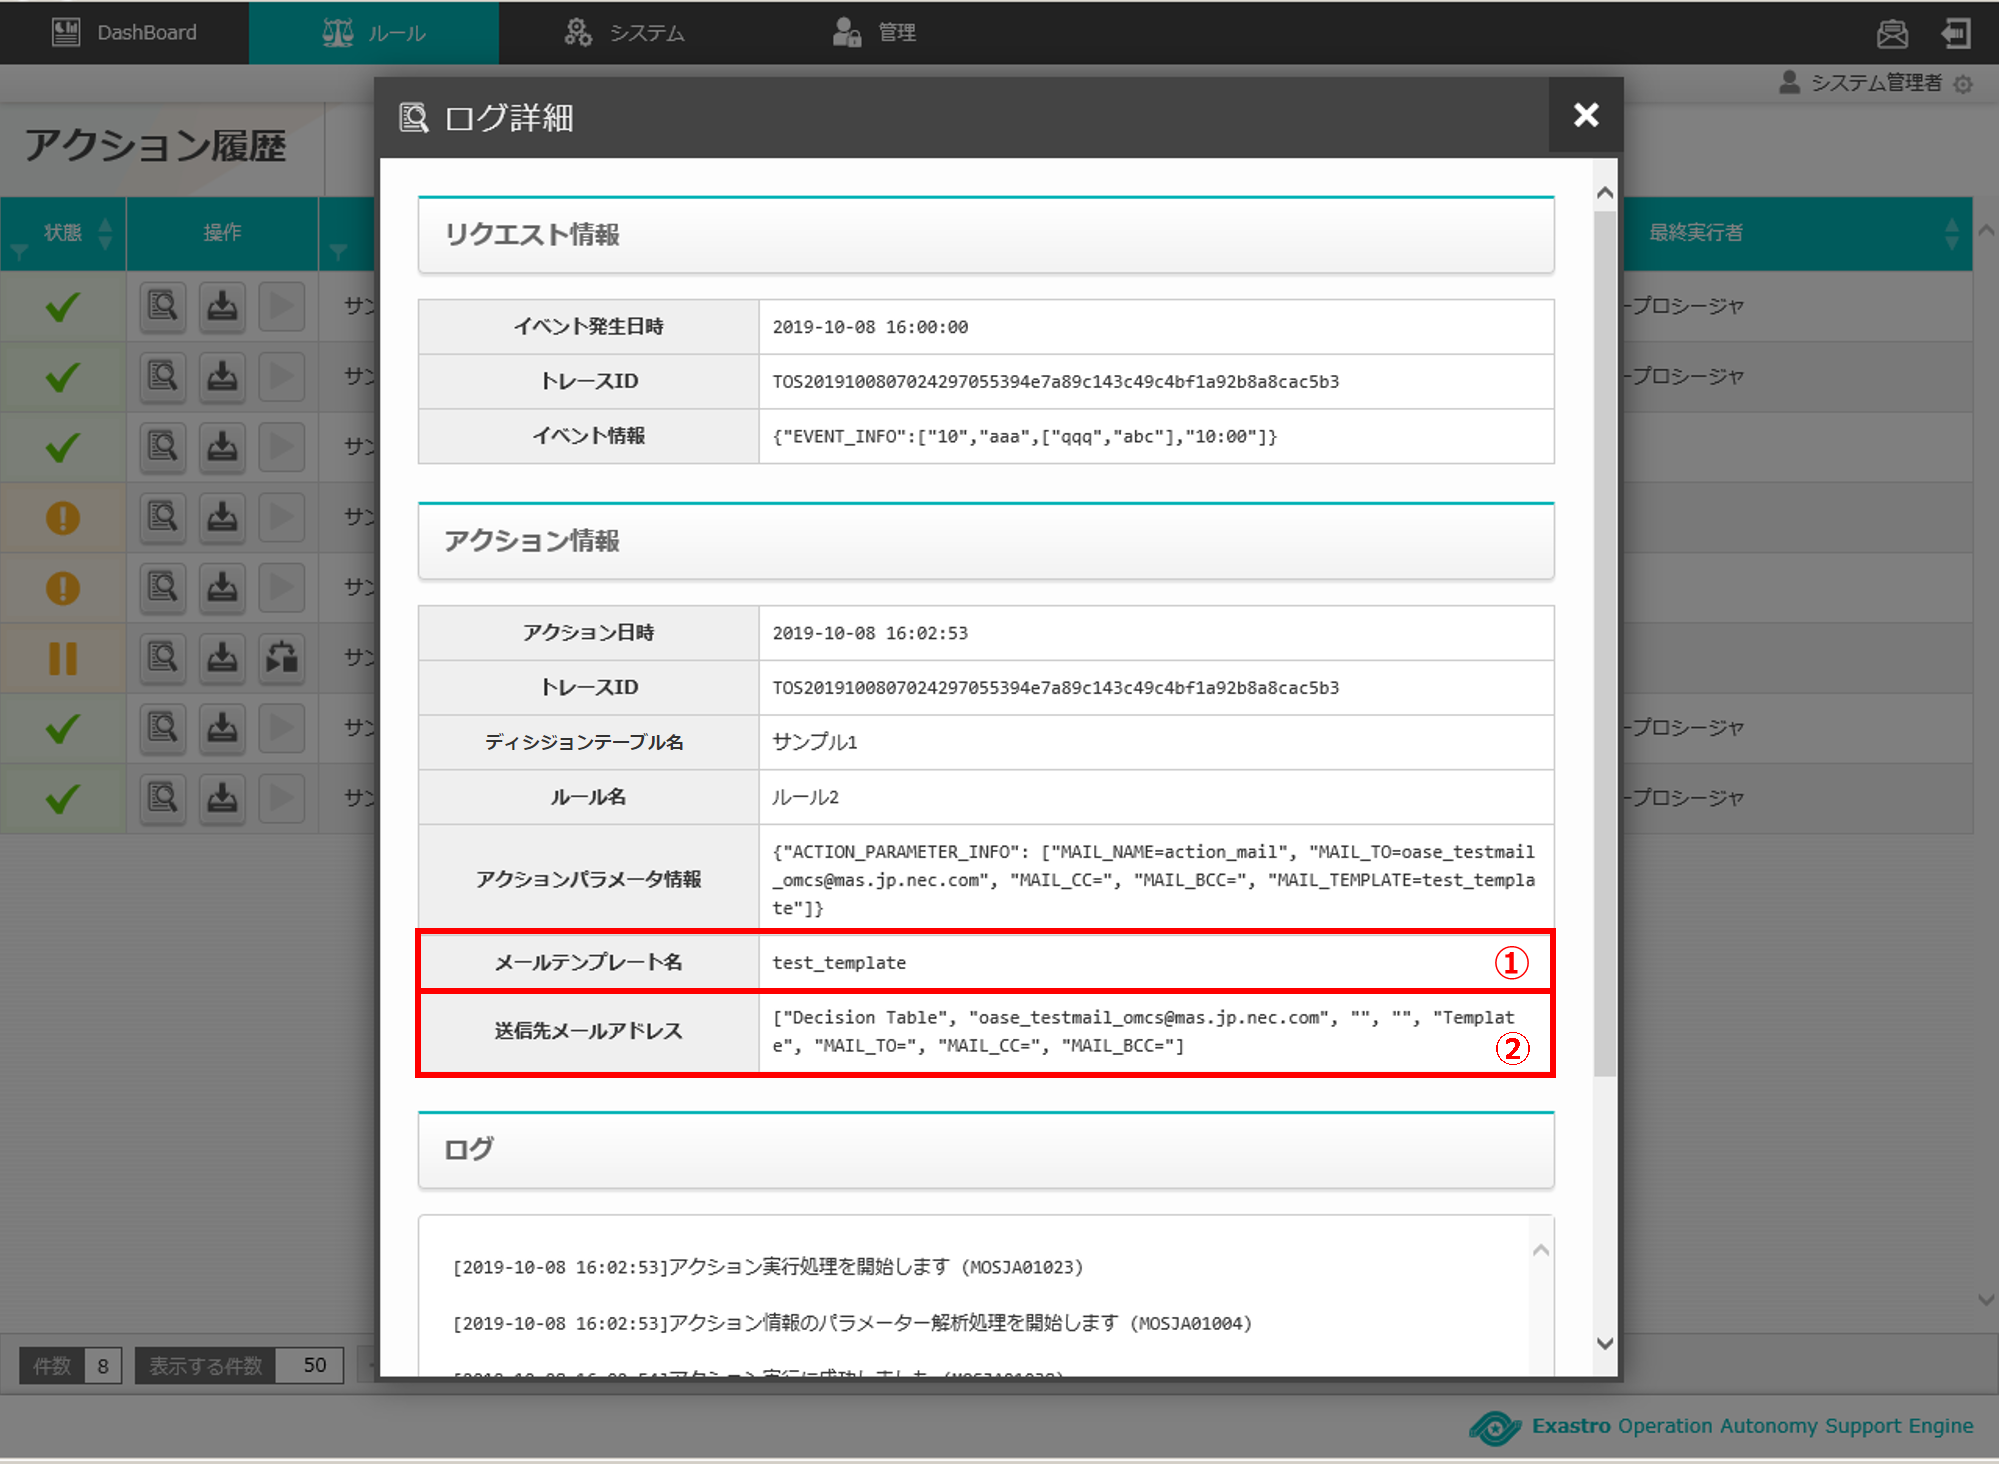
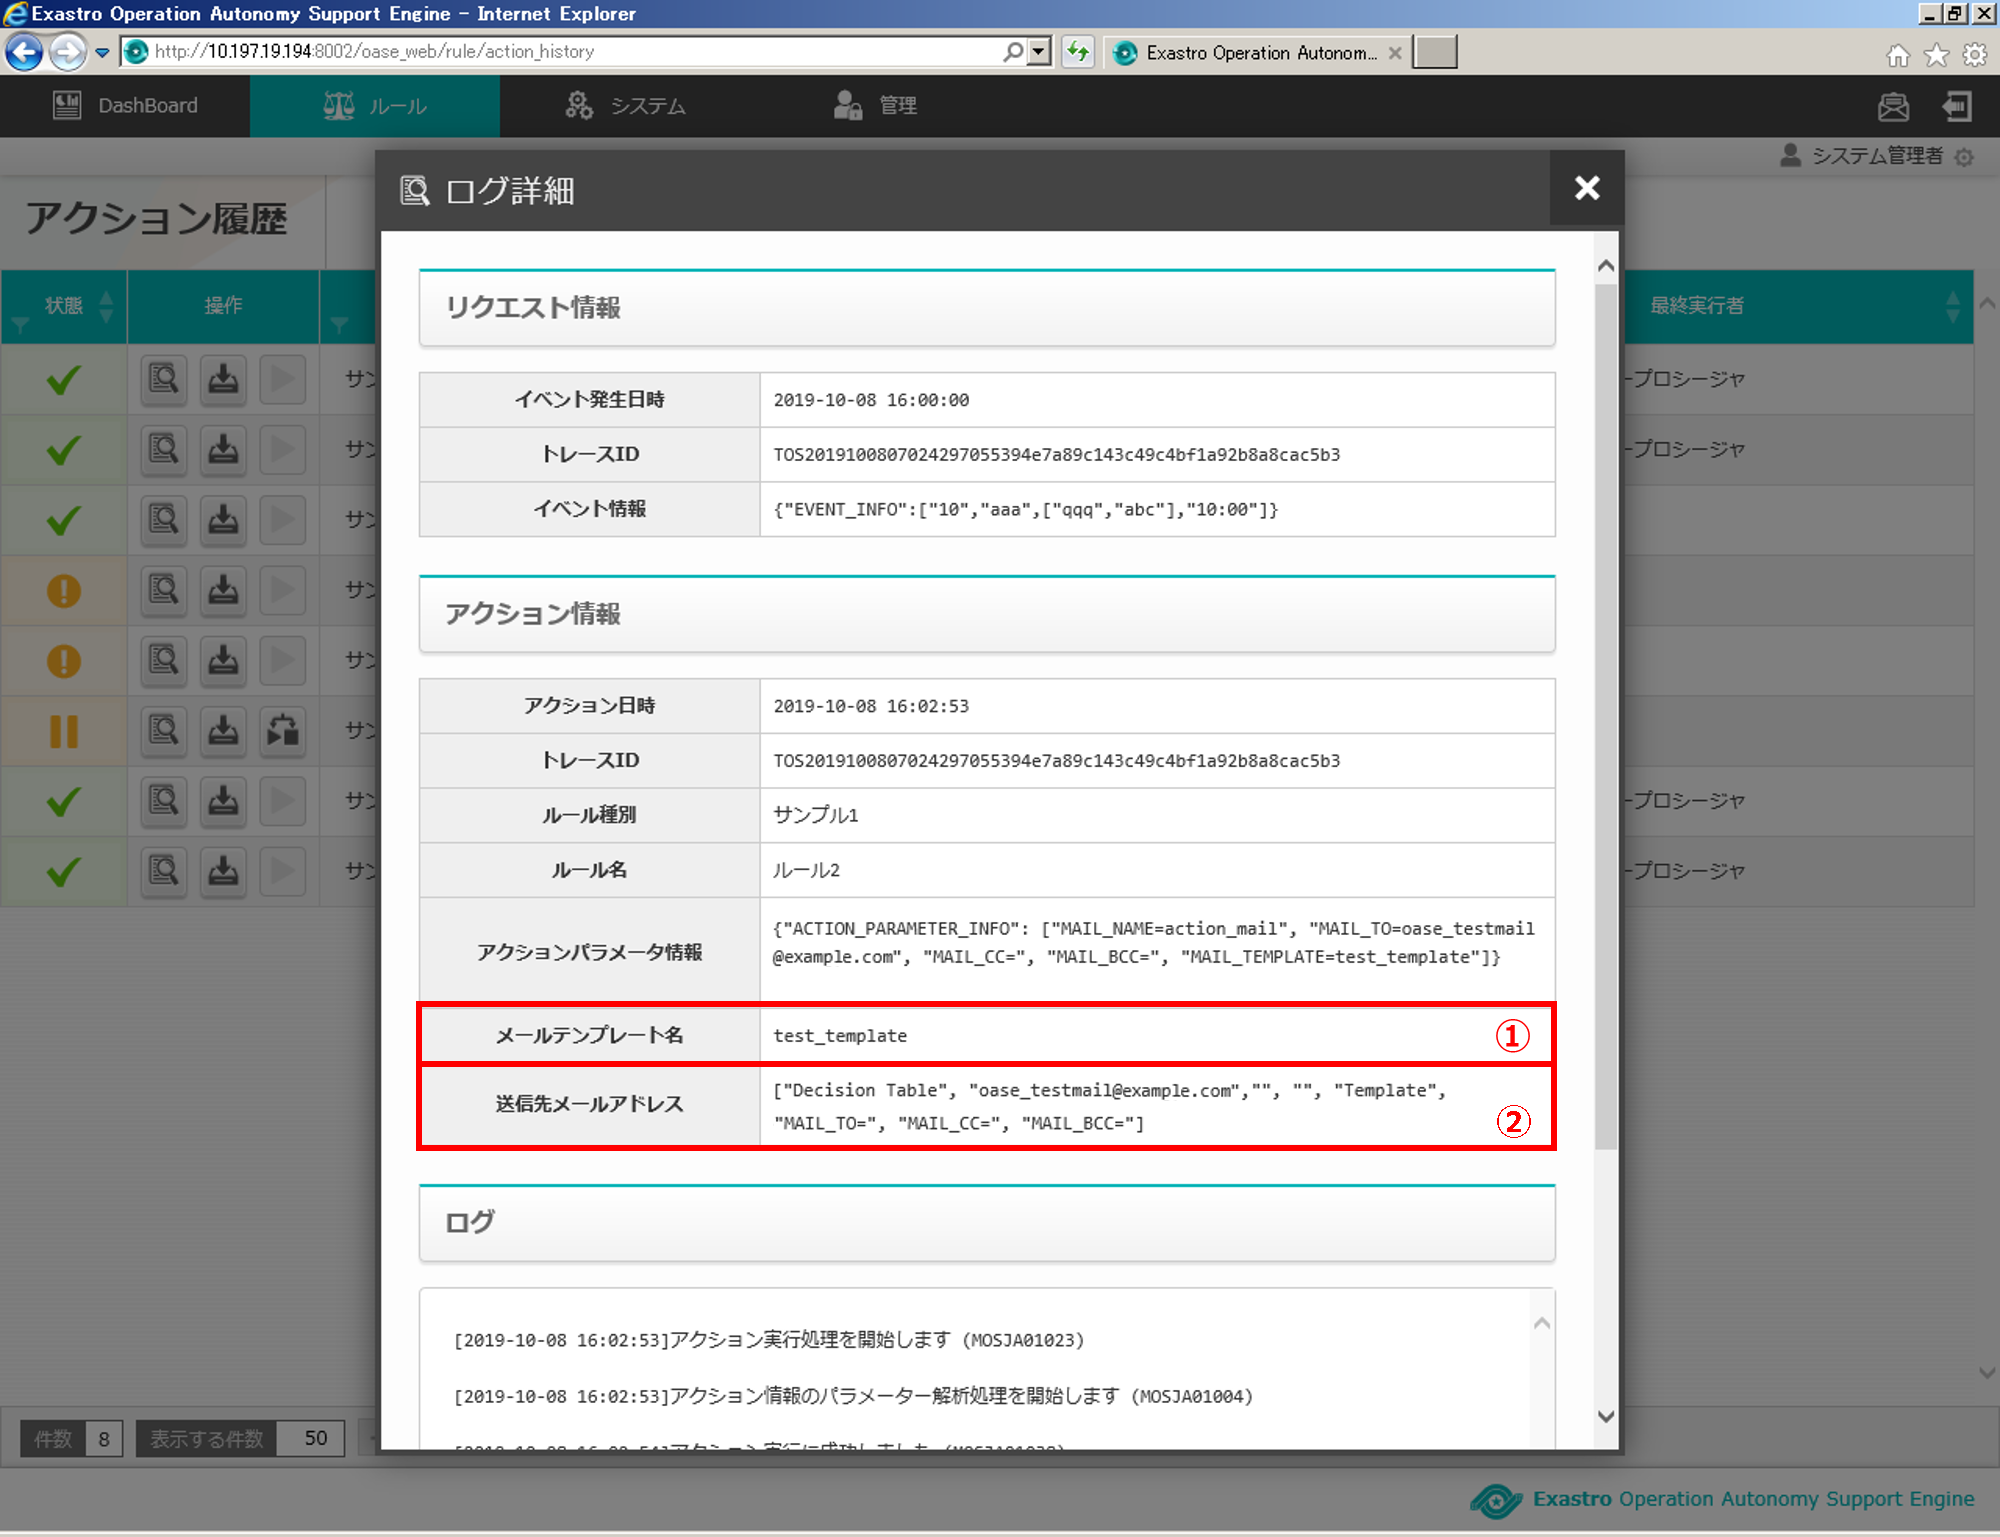
デバッグコード削除、他

Changed region(s): [[0.0, 0.0, 1.0, 0.9836], [0.8064, 0.4918, 0.8684, 0.5533], [0.0, 0.5225, 0.031, 0.5533]]

diff --git a/oase-root/web_app/templates/system/mail/action_mail.html b/oase-root/web_app/templates/system/mail/action_mail.html
@@ -493,7 +493,7 @@ function moveMailTemplate() {
                   </tr>
                   <tr>
                     <th><div class="cell-inner">{% get_message 'MOSJA27025' request.user.get_lang_mode showMsgId=False %}<sup>*</sup><span class="help tooltip" title="{% get_message 'MOSJA00108' request.user.get_lang_mode showMsgId=False %}"><em class="owf owf-question"></em></span></div></th>
-                    <td><div class="cell-inner"><input id="editMailServer" data-maxlength="128" data-type="text" type="text" class="validation-input" value="nec-it-automation" required></div></td>
+                    <td><div class="cell-inner"><input id="editMailServer" data-maxlength="128" data-type="text" type="text" class="validation-input" value="exastro-it-automation" required></div></td>
                   </tr>
                   <tr>
                     <th><div class="cell-inner">{% get_message 'MOSJA27021' request.user.get_lang_mode showMsgId=False %}<sup>*</sup><span class="help tooltip" title="{% get_message 'MOSJA00109' request.user.get_lang_mode showMsgId=False %}"><em class="owf owf-question"></em></span></div></th>

diff --git a/oase-root/web_app/templates/system/ITA/action_ITA.html b/oase-root/web_app/templates/system/ITA/action_ITA.html
@@ -769,7 +769,7 @@ function showNewTable(){
                   </tr>
                   <tr>
                     <th><div class="cell-inner">{% get_message 'MOSJA27020' request.user.get_lang_mode showMsgId=False %}<sup>*</sup><span class="help tooltip" title="{% get_message 'MOSJA00108' request.user.get_lang_mode showMsgId=False %}"><em class="owf owf-question"></em></span></div></th>
-                    <td><div class="cell-inner"><input id="editItaHost" data-maxlength="128" data-type="text" type="text" class="validation-input" value="nec-it-automation" required></div></td>
+                    <td><div class="cell-inner"><input id="editItaHost" data-maxlength="128" data-type="text" type="text" class="validation-input" value="exastro-it-automation" required></div></td>
                   </tr>
                   <tr>
                     <th><div class="cell-inner">{% get_message 'MOSJA27021' request.user.get_lang_mode showMsgId=False %}<sup>*</sup><span class="help tooltip" title="{% get_message 'MOSJA00109' request.user.get_lang_mode showMsgId=False %}"><em class="owf owf-question"></em></span></div></th>

diff --git a/oase-root/web_app/static/web_app/css/page-login.css b/oase-root/web_app/static/web_app/css/page-login.css
@@ -74,7 +74,7 @@
   0% { opacity: 0; transform: translateY( -16px ); }
 100% { opacity: 1; transform: translateY(   0px ); }
 }
-.ond .oase-login h1 .nec {
+.ond .oase-login h1 .exclusion {
     font-size: 180%;
     letter-spacing: 0.25em;
 }
@@ -297,26 +297,14 @@ padding-right: 0;
   color: #00B5B8;
 }
 .login-footer .exastro {
-font-weight: bold;
-<<<<<<< HEAD
+  font-weight: bold;
 }
 .login-footer em {
-vertical-align: -4px;
-font-size: 150%;
+  vertical-align: -4px;
+  font-size: 150%;
 }
 
 /*
-=======
-}
-.login-footer em {
-vertical-align: -4px;
-font-size: 150%;
-}
-
-
-
-
->>>>>>> 67c83f063d7c898453914ac2c4191dcc7ec5250c
 .ond .oase-login-container {
     background-image: none;
 }
@@ -337,8 +325,4 @@ width: 100%; height: 100%;
 0% { filter: hue-rotate( 0deg); }
 100% { filter: hue-rotate( 360deg); }
 }
-<<<<<<< HEAD
 */
-=======
-
->>>>>>> 67c83f063d7c898453914ac2c4191dcc7ec5250c

diff --git a/oase-root/web_app/templates/common/plain_base_tpl.html b/oase-root/web_app/templates/common/plain_base_tpl.html
@@ -24,7 +24,7 @@ Copyright 2019 NEC Corporation
   <head>
     <meta http-equiv="X-UA-Compatible" content="IE=edge">
     <meta charset="utf-8">
-    <meta name="description" content="NEC-Operation-Autonomy-Support-Engine">
+    <meta name="description" content="Operation-Autonomy-Support-Engine">
     <meta name="viewport" content="width=device-width, initial-scale=1.0">
     <meta name="format-detection" content="telephone=no">
     <meta name="theme-color" content="#00CED1">

diff --git a/oase-root/web_app/static/web_app/css/style.css b/oase-root/web_app/static/web_app/css/style.css
@@ -316,7 +316,7 @@ html.ond, .ond body {
   0% { opacity: 0; transform: translateY( -16px ); }
 100% { opacity: 1; transform: translateY(   0px ); }
 }
-.ond .oase-login h1 .nec {
+.ond .oase-login h1 .exclusion {
     font-size: 180%;
     letter-spacing: 0.25em;
 }

diff --git a/oase-root/libs/webcommonlibs/oase_mail.py b/oase-root/libs/webcommonlibs/oase_mail.py
@@ -269,7 +269,7 @@ class OASEMailInitialPasswd(OASEMailBase):
     """
 
     # メール情報
-    MAILACC  = "noreply@omcs.jp.nec.com"
+    MAILACC  = "noreply@example.com"
     SUBJECT  = "パスワード通知"
     MAILTEXT = (
         "%s 様\n"
@@ -341,7 +341,7 @@ class OASEMailInitialLoginID(OASEMailBase):
     """
 
     # メール情報
-    MAILACC  = "noreply@omcs.jp.nec.com"
+    MAILACC  = "noreply@example.com"
     SUBJECT  = "ログインID通知"
     MAILTEXT = (
         "%s 様\n"
@@ -412,7 +412,7 @@ class OASEMailOnetimePasswd(OASEMailBase):
       ワンタイムパスワード通知メール
     """
     # メール情報
-    MAILACC  = "noreply@omcs.jp.nec.com"
+    MAILACC  = "noreply@example.com"
     SUBJECT  = "パスワードリセット通知"
     MAILTEXT = (
         "%s 様\n"
@@ -475,7 +475,7 @@ class OASEMailUserLocked(OASEMailBase):
       ワンタイムパスワード通知メール
     """
     # メール情報
-    MAILACC  = "noreply@omcs.jp.nec.com"
+    MAILACC  = "noreply@example.com"
     SUBJECT  = "ユーザロック通知"
     MAILTEXT = (
         "ユーザID「%s」が連続ロック上限回数に達しました。\n"
@@ -522,7 +522,7 @@ class OASEMailAddBlackList(OASEMailBase):
     """
 
     # メール情報
-    MAILACC  = "noreply@omcs.jp.nec.com"
+    MAILACC  = "noreply@example.com"
     SUBJECT  = "ブラックリスト登録"
     MAILTEXT = (
         "　IP「%s」からのログインが、連続ログイン試行回数の上限に達したため、ブラックリストに登録しました。\n"
@@ -566,7 +566,7 @@ class OASEMailModifyMailAddressNotify(OASEMailBase):
     """
 
     # メール情報
-    MAILACC   = "noreply@omcs.jp.nec.com"
+    MAILACC   = "noreply@example.com"
     SUBJECT   = "メールアドレスのご変更"
     CONFIG_ID = "MODIFY_MAILADDR_NOTIFY"
 
@@ -606,7 +606,7 @@ class OASEMailUnknownEventNotify(OASEMailBase):
     """
 
     # メール情報
-    MAILACC   = "noreply@omcs.jp.nec.com"
+    MAILACC   = "noreply@example.com"
     SUBJECT   = "UNKNOWN_EVENT_MAIL_SUBJECT"
     CONFIG_ID = "UNKNOWN_EVENT_MAIL_CONTENT"
 

diff --git a/oase-root/libs/commonlibs/ad_authenticator.py b/oase-root/libs/commonlibs/ad_authenticator.py
@@ -176,18 +176,3 @@ class AdAuthenticator:
         return self._conn
 
 
-########################################
-# DEBUG Code
-########################################
-if __name__=='__main__':
-
-    authenticator = AdAuthenticator(
-                            search_path='OU=OASEtestOU,DC=mas,DC=local',
-                            hosts=['10.132.34.133',],
-                            use_ssl=False,
-                            port=389,
-                            connect_timeout=3,
-                            read_timeout=3
-                        )
-
-    authenticator.authenticate(username='OASEAdAdmin', password='P@$$w0rd')

diff --git a/oase_documents/conf.py b/oase_documents/conf.py
@@ -22,7 +22,7 @@ copyright = '2019 NEC Corporation'
 author = 'NEC'
 
 # The full version, including alpha/beta/rc tags
-release = '1.1.1'
+release = '1.2.0'
 
 
 # -- General configuration ---------------------------------------------------

diff --git a/oase_documents/system_construction/introduction.rst b/oase_documents/system_construction/introduction.rst
@@ -2,7 +2,7 @@
 はじめに
 =========================
 
-| 本書では、NEC Operation Autonomy Support Engine (以降、OASEと略)システム運用
+| 本書では、Operation Autonomy Support Engine (以降、OASEと略)システム運用
 | の為のシステム構成と、環境構築について説明します。
 
 ・OASE基本機能

diff --git a/oase_documents/settings/introduction.rst b/oase_documents/settings/introduction.rst
@@ -2,7 +2,7 @@
 はじめに
 =================================
 
-本書では、NEC Operation Autonomy Support Engine (以降、OASEと略)導入のための手順について説明します。
+本書では、Operation Autonomy Support Engine (以降、OASEと略)導入のための手順について説明します。
 
 ・OASE基本機能
 
